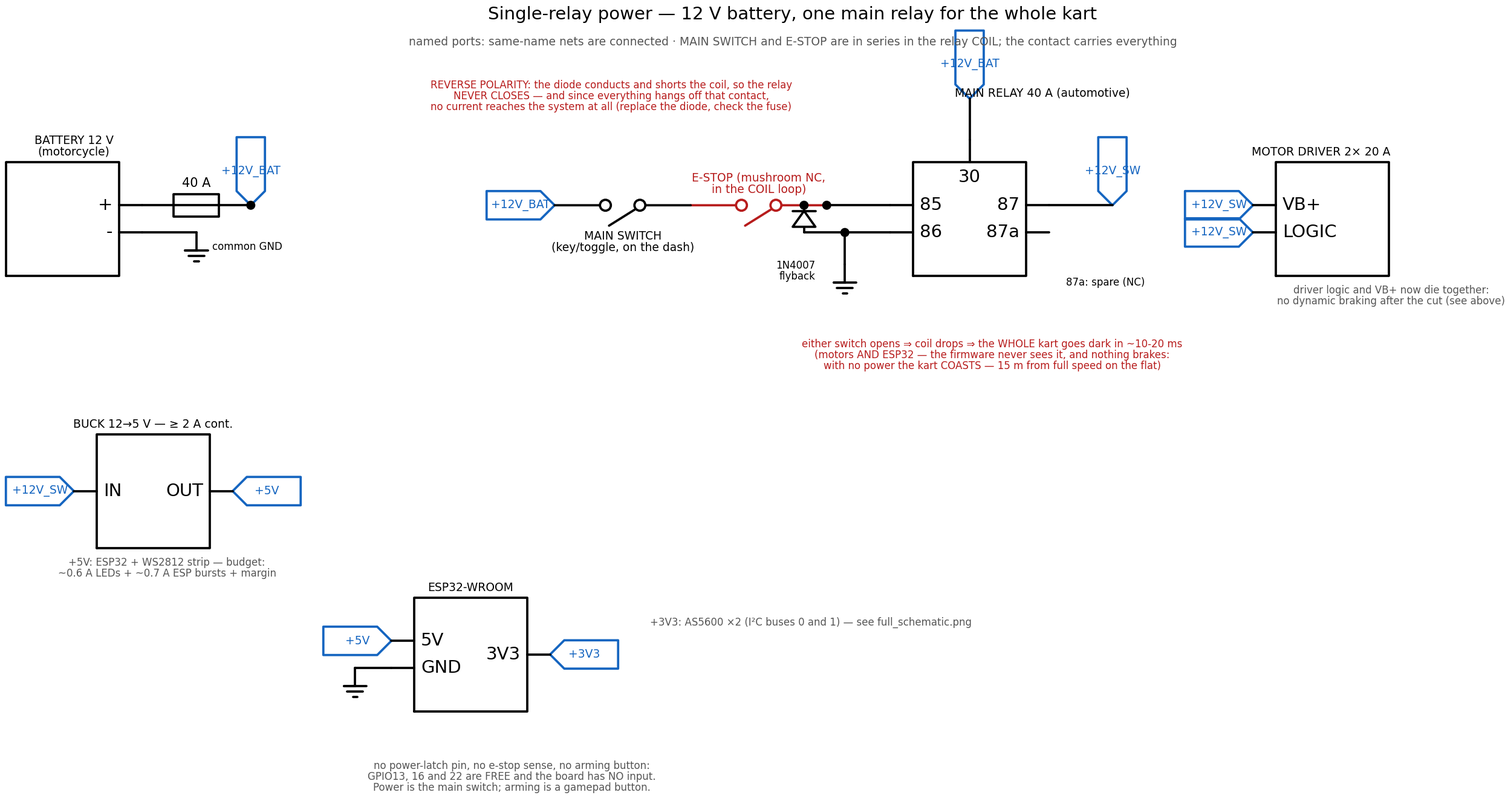
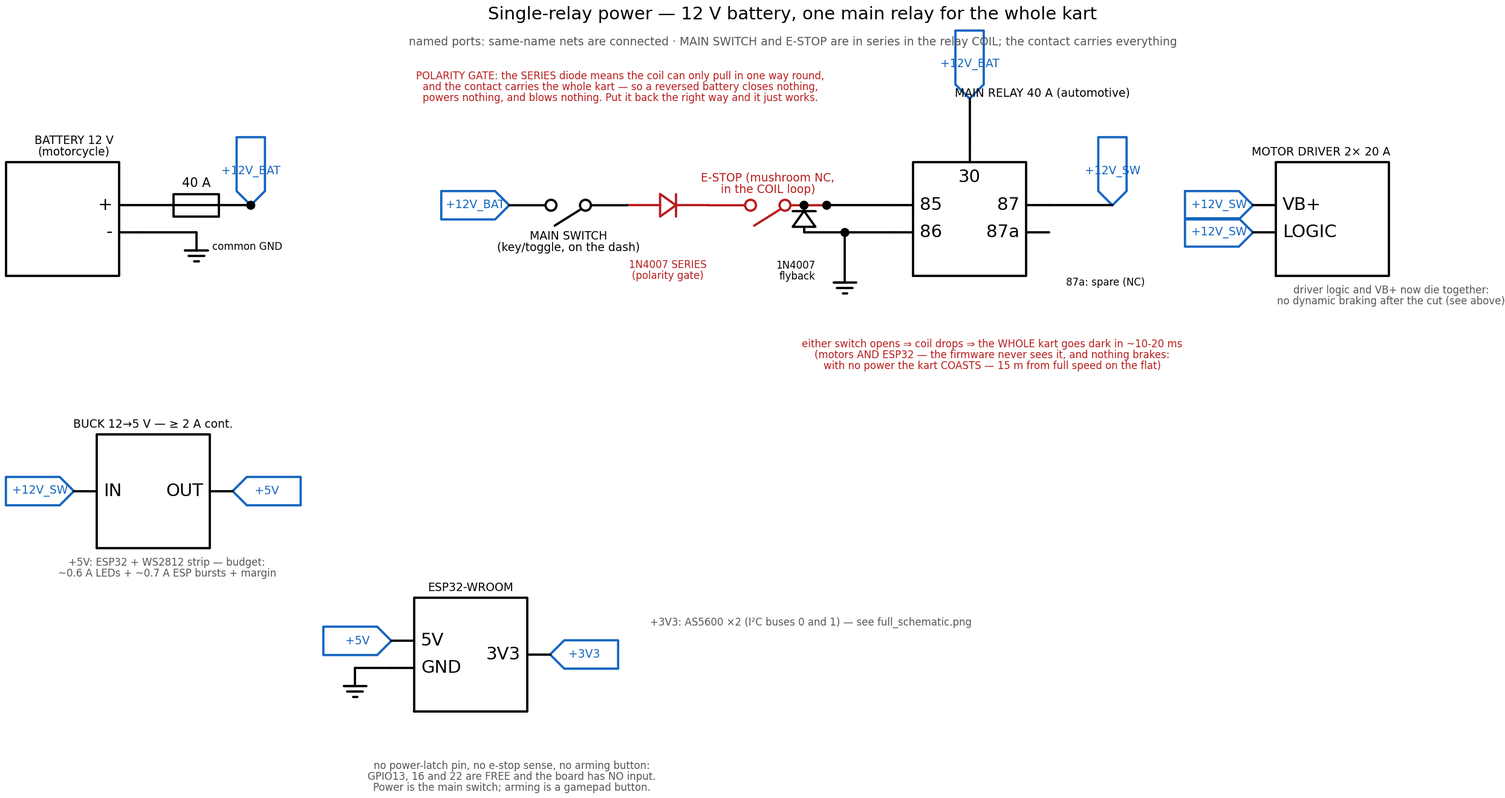
The relay becomes a polarity gate, with a diode in series in its coil
The owner put the protection the right way round, and it is worth stating
the way he put it: what protects the kart is not the fuse blowing, it is
that NOTHING is powered until the contact closes, and the contact only
closes if the coil is energized. Gate the coil and you have gated the whole
vehicle — driver, buck, ESP32, sensors, all of it sits behind that contact.

A relay coil does not gate anything by itself: a solenoid pulls in
whichever way the current flows. The flyback diode ACROSS the coil made it
polarity-sensitive by accident, and badly — reversed, it shorts the coil,
so the relay does stay open, but it does that by conducting the fault: the
40 A fuse blows, a 1N4007 eats a surge two orders of magnitude past its
rating, and if it ever fails OPEN the protection is gone with no sign. That
is single-use protection dressed up as a design feature.

So a second 1N4007 goes IN SERIES in the coil loop, between the main switch
and the mushroom. Reversed battery: it blocks, the coil sees nothing, the
contact stays open, no current flows anywhere and nothing is stressed — put
the battery back the right way and the kart starts. It costs ~0.9 V on a
coil that pulls in around 7-8 V from 12, and it fails loudly if fitted
backwards (the relay simply never closes), which is the failure mode you
want from a guard. Schematic, BOM (2 diodes now), wiring guide, power-up
checklist ("the relay does not click? check polarity and the diode's
[…]

Changed region(s): [[0.2784, 0.0933, 0.5569, 0.1554], [0.2784, 0.2176, 0.464, 0.373], [0.464, 0.2176, 0.5569, 0.2798]]

diff --git a/firmware/main/assets/index.html b/firmware/main/assets/index.html
@@ -302,7 +302,7 @@
    relay's own 10–20 ms.</p>
 
   <svg class="gears" viewBox="0 0 360 200" role="img"
-       aria-label="Power chain: the battery positive goes through a 40 amp fuse to a junction; one branch runs through the main switch and the normally-closed emergency-stop mushroom to the relay coil, which carries a flyback diode across it; the other branch is the relay contact, which feeds the whole kart">
+       aria-label="Power chain: the battery positive goes through a 40 amp fuse to a junction; one branch runs through the main switch, a series diode and the normally-closed emergency-stop mushroom to the relay coil, which also carries a flyback diode across it; the other branch is the relay contact, which feeds the whole kart">
    <text x="14" y="26" text-anchor="start">12 V +</text>
    <circle class="node" cx="20" cy="34" r="3"/>
    <path class="wire" d="M20 34 H52"/>
@@ -310,44 +310,55 @@
    <text class="dim" x="69" y="18" text-anchor="middle">40 A</text>
    <path class="wire" d="M86 34 H120"/>
    <circle class="node" cx="120" cy="34" r="3.5"/>
-   <!-- coil branch: main switch → e-stop (NC) → coil -->
-   <path class="wire" d="M120 34 H144 M172 34 H206 M236 34 H255"/>
+   <!-- coil branch: main switch → SERIES diode (the polarity gate) → e-stop (NC) → coil -->
+   <path class="wire" d="M120 34 H144 M172 34 H180 M192 34 H206 M236 34 H255"/>
    <path class="wire" d="M144 34 L168 22"/>
    <circle class="node" cx="144" cy="34" r="2.5"/><circle class="node" cx="172" cy="34" r="2.5"/>
-   <text class="dim" x="158" y="50" text-anchor="middle">main switch</text>
+   <text class="dim" x="148" y="50" text-anchor="middle" style="font-size:9px">main switch</text>
+   <path class="wire" d="M180 27 L180 41 L192 34 Z M192 26 V42"/>
+   <text class="dim" x="184" y="21" text-anchor="middle" style="font-size:8px">1N4007 gate</text>
    <circle class="node" cx="206" cy="34" r="2.5"/><circle class="node" cx="236" cy="34" r="2.5"/>
    <path class="wire" d="M206 34 V28 M236 34 V28 M204 28 H238 M221 28 V16"/>
    <rect class="body" x="211" y="8" width="20" height="7" rx="3.5"/>
-   <text class="dim" x="221" y="50" text-anchor="middle">e-stop (NC)</text>
+   <text class="dim" x="216" y="53" text-anchor="middle" style="font-size:8px">e-stop (NC)</text>
    <rect class="body" x="255" y="20" width="60" height="28" rx="3"/>
    <text x="285" y="38" text-anchor="middle">COIL</text>
    <path class="wire" d="M315 34 H330 V72 M245 34 V60 H330"/>
    <circle class="node" cx="245" cy="34" r="2.5"/>
    <path class="wire" d="M296 54 L296 66 L282 60 Z M280 53 V67"/>
-   <text class="dim" x="248" y="76" text-anchor="start">1N4007 — cathode to +</text>
+   <text class="dim" x="246" y="74" text-anchor="start" style="font-size:8px">1N4007 flyback</text>
+   <text class="dim" x="246" y="84" text-anchor="start" style="font-size:8px">cathode to +</text>
    <path class="wire" d="M322 72 H338 M325 77 H335 M328 82 H332"/>
    <!-- contact branch: the 40 A the coil switches -->
    <path class="wire" d="M120 34 V130 M158 130 H196"/>
    <circle class="node" cx="120" cy="130" r="2.5"/><circle class="node" cx="158" cy="130" r="2.5"/>
    <path class="wire" d="M120 130 L152 118"/>
    <path class="wire" stroke-dasharray="4 4" d="M258 48 L150 112"/>
-   <text class="dim" x="134" y="152" text-anchor="middle">contact 30→87</text>
+   <text class="dim" x="134" y="150" text-anchor="middle" style="font-size:9px">contact 30→87</text>
    <rect class="chip" x="196" y="108" width="152" height="46" rx="6"/>
    <text x="272" y="126" text-anchor="middle">THE WHOLE KART</text>
-   <text class="dim" x="272" y="140" text-anchor="middle">buck 5 V → ESP32 · WS2812</text>
-   <text class="dim" x="272" y="152" text-anchor="middle">motor driver VB+</text>
+   <text class="dim" x="272" y="139" text-anchor="middle" style="font-size:8px">buck 5 V → ESP32 · WS2812</text>
+   <text class="dim" x="272" y="150" text-anchor="middle" style="font-size:8px">motor driver VB+</text>
   </svg>
 
-  <p class="note"><b>The diode is there for the coil, and it protects the whole kart by accident.</b>
-   Its job is flyback: when the coil is de-energized it would otherwise kick a few hundred volts
-   across whatever just opened, and that arc eats switch contacts. Cathode to <b>+</b>, it does
-   nothing at all in normal operation. Connect the battery <b>backwards</b>, though, and that same
-   diode is suddenly forward-biased across the coil: it shorts it, so <b>the relay never pulls
-   in</b> — and because <i>everything</i> hangs off that one contact, <b>no current reaches the
-   system at all</b>. Not the motor driver (no reverse protection of its own, destroyed instantly
-   by reversed VB+), not the buck, not the ESP32, not the sensors. Afterwards: fix the polarity,
-   <b>replace the diode and check the 40 A fuse</b> — the two race each other during the event, and
-   a relay that no longer clicks is a dead diode, not a dead relay.</p>
+  <p class="note"><b>The relay is a polarity gate — that is the reverse-polarity protection.</b>
+   Nothing on this kart is powered until the contact closes, and the contact only closes if the
+   coil is energized. A relay coil does not care which way current flows through it, so a
+   <b>1N4007 in series</b> in the coil loop decides for it: with the battery backwards the diode
+   blocks, the coil sees nothing, the contact stays open, and <b>no current reaches anything</b> —
+   not the motor driver (no reverse protection of its own, destroyed instantly by reversed VB+),
+   not the buck, not the ESP32, not the sensors. Nothing blows and nothing is stressed; put the
+   battery back the right way and the kart starts. Fit it <b>band toward the relay</b> — backwards,
+   the relay simply never closes, which is a loud and harmless way to fail.</p>
+
+  <p class="note"><b>The second diode, across the coil, is the flyback.</b> When either switch
+   opens the coil, the collapsing field would otherwise break a few hundred volts across the
+   contact that just opened, eroding the mushroom and the main switch. Cathode to <b>+</b>, it
+   does nothing in normal operation. It could <i>almost</i> serve as the polarity guard on its own
+   — reversed, it shorts the coil and the relay does stay open — but it would do it by blowing the
+   40 A fuse and taking a surge far past its 1 A rating, and a diode that fails <b>open</b> takes
+   the protection with it, silently. Hence the series one: same protection, passive, repeatable,
+   and it costs ~0.9 V on a coil that pulls in around 7–8 V.</p>
 
   <p class="note"><b>The firmware has no say in any of this.</b> There is no power latch and no
    coil sense: the ESP32 cannot hold its own supply and cannot cut it. Press the mushroom and the

diff --git a/doc/schematics/power_rails.py b/doc/schematics/power_rails.py
@@ -1,15 +1,15 @@
 # power_rails.py — Kart power architecture, SINGLE-RELAY build (current design).
 # Single 12 V battery → 40 A fuse → ONE main relay that carries the WHOLE kart:
-#   · COIL circuit: +12V_BAT → MAIN SWITCH → E-STOP (NC mushroom) → coil 85; 86 → GND.
-#     Opening either one drops the coil, the contact opens, and everything dies together —
-#     motors AND brain. There is no second rail and no software involvement whatsoever:
-#     the firmware cannot hold its own power and cannot cut it (GPIO13/GPIO22 are free now).
+#   · COIL circuit: +12V_BAT → MAIN SWITCH → E-STOP (NC mushroom) → SERIES DIODE → coil 85;
+#     86 → GND. Opening either switch drops the coil, the contact opens, and everything dies
+#     together — motors AND brain. No second rail, no software involvement whatsoever: the
+#     firmware cannot hold its own power and cannot cut it (GPIO13/GPIO22 are free now).
 #   · CONTACT (30 → 87): the 40 A path feeding the buck (5 V logic) and the driver's VB+.
-#     Because EVERYTHING is behind that contact, a reversed battery reaches nothing at all.
-#   · 1N4007 across the coil (cathode to 85/+): flyback for the switch contacts — and, as a
-#     side effect, REVERSE-POLARITY protection for the whole kart: wire the battery backwards
-#     and the diode conducts, the fuse blows, and the relay never closes, so nothing
-#     downstream (the driver above all, which has no protection of its own) ever sees it.
+#   · THE RELAY IS A POLARITY GATE. The SERIES diode lets the coil energize in ONE direction
+#     only, and the contact carries the whole kart — so with the battery backwards the coil
+#     simply does not pull in, nothing downstream is ever powered, and nothing blows either:
+#     no current flows at all. Re-wire the right way round and it works. The second diode,
+#     ACROSS the coil (cathode to 85/+), is the flyback for the two mechanical switches.
 # Nothing measures the battery any more: no divider, no ADS1115, no LVC. Always 12 V.
 #   . .venv-schem/bin/activate && python doc/schematics/power_rails.py
 import schemdraw
@@ -71,9 +71,13 @@ with schemdraw.Drawing(file='doc/schematics/power_rails.png', dpi=150, show=Fals
     n85 = d.here
     d += elm.Dot()
     d += elm.Switch().left().at(n85).label('E-STOP (mushroom NC,\nin the COIL loop)',
-                                           loc='top', fontsize=9).length(3.0).color(HL)
+                                           loc='top', fontsize=9).length(2.6).color(HL)
+    # SERIES diode, anywhere in the coil loop: the coil can only be energized one way round.
+    # THIS is what makes the relay a polarity gate rather than a plain switch.
+    d += elm.Diode().left().length(1.8).reverse().label(
+        '1N4007 SERIES\n(polarity gate)', loc='bottom', fontsize=8, ofst=0.95).color(HL)
     d += elm.Switch().left().label('MAIN SWITCH\n(key/toggle, on the dash)',
-                                   loc='bottom', fontsize=9).length(3.0)
+                                   loc='bottom', fontsize=9).length(2.6)
     flag(d, d.here, '+12V_BAT', 'left')
     d += elm.Line().left().at(P(rly, '86')).length(1.0)
     n86 = d.here
@@ -88,10 +92,10 @@ with schemdraw.Drawing(file='doc/schematics/power_rails.png', dpi=150, show=Fals
                            '(motors AND ESP32 — the firmware never sees it, and nothing brakes:\n'
                            'with no power the kart COASTS — 15 m from full speed on the flat)',
                            fontsize=8, color=HL).at((11.6, 7.9))
-    d += elm.Label().label('REVERSE POLARITY: the diode conducts and shorts the coil, so the relay\n'
-                           'NEVER CLOSES — and since everything hangs off that contact,\n'
-                           'no current reaches the system at all (replace the diode, check the fuse)',
-                           fontsize=8, color=HL).at((3.2, 13.6))
+    d += elm.Label().label('POLARITY GATE: the SERIES diode means the coil can only pull in one way round,\n'
+                           'and the contact carries the whole kart — so a reversed battery closes nothing,\n'
+                           'powers nothing, and blows nothing. Put it back the right way and it just works.',
+                           fontsize=8, color=HL).at((3.4, 13.8))
 
     # ───────── Loads: everything hangs off the contact ─────────
     buck = d.add(elm.Ic(pins=[elm.IcPin(name='IN', side='left'), elm.IcPin(name='OUT', side='right')],

diff --git a/firmware/main/webserver.cpp b/firmware/main/webserver.cpp
@@ -61,6 +61,11 @@ constexpr char AP_SSID[]  = "Kart-Config";
 constexpr char AP_PASS[]  = "kart12345";   // ≥ 8 characters (otherwise open AP)
 constexpr int  AP_CHANNEL = 1;
 constexpr int  AP_MAX_CONN = 4;
+// STA reconnection HEARTBEAT: 5 s between attempts, never faster. A failed association is
+// retried by a one-shot timer rather than from the disconnect handler itself — reconnecting
+// in a tight loop would hammer the band (each attempt is a probe/auth/assoc exchange) and
+// starve the Bluetooth side, which shares the one radio with Wi-Fi on this chip. The kart
+// drives on that radio, so a home network that is simply out of range must cost nothing.
 constexpr int  STA_RETRY_MS = 5000;   // delay before a new STA connection attempt
 
 httpd_handle_t     m_server = nullptr;
@@ -70,7 +75,7 @@ char               m_sta_ip[16] = "0.0.0.0";
 esp_netif_t*       m_netif_ap = nullptr;
 esp_netif_t*       m_netif_sta = nullptr;
 
-// Timed STA reconnection (avoids looping too fast).
+// Timed STA reconnection — the only place that retries (STA_START does the first connect).
 void staRetryCb(void*)
 {
     esp_wifi_connect();
@@ -97,6 +102,8 @@ void wifiEvent(void*, esp_event_base_t base, int32_t id, void* data)
         std::strcpy(m_sta_ip, "0.0.0.0");
         if (m_sta_retry)
         {
+            // One-shot: if a retry is already armed this returns ESP_ERR_INVALID_STATE and we
+            // keep the pending one — either way the next attempt is at least 5 s away.
             esp_timer_start_once(m_sta_retry, static_cast<int64_t>(STA_RETRY_MS) * 1000);   // 5 s
         }
     }

diff --git a/README.md b/README.md
@@ -109,7 +109,7 @@ flowchart TB
 - **One battery voltage, and it is 12 V** (2026-09-20 simplification): the motors are 12 V, the pack is 12 V, and **nothing measures it** — no ADS1115, no divider, no low-voltage cutoff, no automatic `12 V / Vbat` cap. The driver would accept 6–30 V, but running anything above 12 V would now need that cap back, so **do not**. The only power ceiling left is the manual **`duty_cap`** on the config page, which doubles as the "make it gentler for a small child" knob. The trade, stated: a flat pack is no longer reported, warned about or protected against — it just makes the kart slower. Charge it on a schedule and watch its own indicator.
 - **Independently-mounted rear wheels**: driven by **#35 chain** (sprocket bolted to the rim), each keeps its original bearing on its own shoulder bolt — no through drive axle.
 - **Battery and electronics in the nose, drive at the rear**: longitudinal layout **CASTER + BATTERY + ESP32 + driver (nose) → CABIN → BENCH → DRIVEN AXLE 6″ behind it**. The children sit just ahead of the driven wheels, which puts **~61 % of the load on them** — traction and electric braking both act there, and weight transfer on a slope works with you. It was 79 % before the 6″/6″ move; that 18 points is the same thing the rollover margin lost. The battery in the nose keeps the caster planted. Power runs nose→rear in 10 AWG (~0.3 V at 40 A).
-- **Safety**: **central hardware emergency stop**, at the **top of the seatback** (within reach of both kids and an adult behind), **in the MAIN RELAY's coil loop together with the main switch** — the mushroom breaks ~150 mA, the relay contact breaks the 40 A, and **the whole kart goes dark, ESP32 included**. ⚠ That means **no braking after the cut**: the kart coasts (~15 m from full speed on the flat, measured in simulation — do not use the mushroom as a brake, and never rely on it downhill). The **brake** is releasing the stick; the **software** emergency stop (gamepad button B) brakes properly because the firmware is still alive. Plus: one 40 A fuse, **1N4007 across the relay coil** (flyback — and reverse-polarity protection as a side effect), **electric brake by default** (gamepad disconnect → immediate braking), **2 s watchdog (PANIC)**, **disarmed** start by default, guards over chains/sprockets, seatbelt, helmet.
+- **Safety**: **central hardware emergency stop**, at the **top of the seatback** (within reach of both kids and an adult behind), **in the MAIN RELAY's coil loop together with the main switch** — the mushroom breaks ~150 mA, the relay contact breaks the 40 A, and **the whole kart goes dark, ESP32 included**. ⚠ That means **no braking after the cut**: the kart coasts (~15 m from full speed on the flat, measured in simulation — do not use the mushroom as a brake, and never rely on it downhill). The **brake** is releasing the stick; the **software** emergency stop (gamepad button B) brakes properly because the firmware is still alive. Plus: one 40 A fuse, **two 1N4007 on the relay coil** — one **in series** (the coil energizes in one polarity only, so the relay is a **polarity gate** in front of the whole kart) and one **across** it (flyback for the two switches), **electric brake by default** (gamepad disconnect → immediate braking), **2 s watchdog (PANIC)**, **disarmed** start by default, guards over chains/sprockets, seatbelt, helmet.
 
 ---
 
@@ -298,7 +298,7 @@ Web parameters: **`turn_gain`** (turn authority), **`turn_full_ms`** / **`turn_a
 | | *Analog joystick* | **possible future**, behind the same software abstraction — but it would now need an ADC of its own (the ADS1115 and its two reserved channels are gone) |
 | **Power / electronics** | Battery | **One 12 V motorcycle battery** (~40 A peak OK, PWM ~100%) **in the NOSE, strapped in a retaining tray above the front caster** — it is the counterweight that keeps that single wheel planted. No paralleling this phase. **12 V is now a design constant**: nothing measures the pack, so nothing could cap the duty for a higher-voltage one — the 24 V option went away with the ADC |
 | | **Battery adapters** (×2) | Slide-on holder → power terminals (+ / −) |
-| | **40 A automotive relay** + **1N4007** across its coil | **the** main power switch: contact 30→87 carries the whole kart (see [power switch](#power-switch-one-main-relay)) + 1 fuse. The diode is flyback for the switches **and** reverse-polarity protection for everything downstream |
+| | **40 A automotive relay** + **2× 1N4007** on its coil | **the** main power switch: contact 30→87 carries the whole kart (see [power switch](#power-switch-one-main-relay)) + 1 fuse. One diode **in series** in the coil loop makes the relay a **polarity gate** (reversed battery ⇒ the coil never pulls in ⇒ nothing downstream is powered); the other, **across** the coil, is the flyback for the two switches |
 | | **Main switch + e-stop mushroom** | both **in series in the relay's coil** (~150 mA, thin wire): the main switch on the dash is the kart's on/off, the mushroom at the top of the seatback is the emergency cut. No latch, no priming button, no FORCE ON toggle, no hold capacitor. Full BOM: [`doc/electronique.md`](doc/electronique.md) |
 | | Motor driver | **1 dual-channel board 20 A / 6–30 V** (PWM+DIR/channel), duty bounded by the manual cap `duty_cap` |
 | | Controller | **ESP32-WROOM board** (dual-core 240 MHz, Wi-Fi/BT, 4 MB flash) |
@@ -439,7 +439,7 @@ The scale (center + half-amplitude per axis) is **persisted in NVS** (namespace 
 
 - **Emergency stop** easily accessible, **in the main relay's coil loop** (in series with the main switch): pressing it de-energises the coil and the **relay contact breaks the 40 A** (~10-20 ms). The mushroom itself only switches ~150 mA on signal-gauge wires — no 40 A detour to the seatback, any decent NC mushroom qualifies. ⚠ **It cuts the ESP32 too**, so the firmware never sees it: no fault, no log entry, and above all **no braking** — the kart coasts (~15 m from full speed on the flat; a slope is worse). Power returns on the main switch and the kart boots **disarmed**. A **welded contact** is no longer detectable in software either: the commissioning test (mushroom pressed, multimeter on VB+) is what catches it. In exchange the wiring lost a relay, an opto, a sense pin and every software path that went with them. The gamepad's **button B** remains the emergency stop that actually **brakes**, because the firmware survives it.
 - **Main switch** (dash, in the same coil loop) is the kart's on/off — the only control on the vehicle. Arming is a gamepad button. **Fuse/pack**, wiring ≥ the 2 motors' current.
-- **1N4007 across the relay coil**: flyback for the two switches, and — because a reversed battery forward-biases it — the **fuse blows and the relay never closes**, so a polarity mistake never reaches the driver (which has no protection of its own).
+- **The relay is a polarity gate**: nothing is powered until the contact closes, and a **1N4007 in series** in the coil loop means the coil energizes in one polarity only. Connect the battery backwards and the coil simply does nothing — no current anywhere, nothing blown, nothing stressed; put it back the right way and the kart starts. A second 1N4007 **across** the coil is the flyback for the two mechanical switches. ⚠ Neither one covers a VB+/VB− swap made *downstream* of the contact, at the driver's terminals.
 - **Battery: one 12 V motorcycle battery** (lead-acid — no BMS of its own). ⚠ **Deep-discharge protection is now the pack's alone**: the firmware LVC went away with the voltage measurement. The 40 A fuse still covers shorts. Charge on a schedule rather than on a warning.
 - **One 12 V pack, no paralleling** (this phase): it carries the whole ~40 A, so its internal resistance sets the sag under load — a motorcycle battery at ~0.05 Ω dips ~2 V at full throttle, which the motors feel as a little less thrust. ⚠ **Never put packs in series**: 24 V on 12 V motors, with no automatic cap left to hold the duty down, cooks them.
 - **Speed limiter** low at first; **battery secured/protected**; **guards**; **electric brake** + **auto disarm** + **2 s watchdog** + manual `duty_cap`. Cut power before servicing (main switch, and pull the fuse for anything invasive).
@@ -673,20 +673,26 @@ flowchart LR
 > |---|---|---|---|
 > | main relay | **YONGCHUAN YCL-12V-C**, automotive SPDT (85/86 coil, 30/87/87a) | 12 V, ~80 Ω, **150 mA** | **40 A** on 87 (NO), 30 A on 87a |
 > | coil switches | ordinary **NC mushroom** + **toggle/key switch**, in series | they only break the 150 mA coil current | signal-gauge wire to the seatback |
+> | coil diodes | **2× 1N4007** — one in SERIES (polarity gate), one ACROSS the coil (flyback) | 1 A / 1000 V, ~0.9 V drop on 150 mA | — |
 >
 > Feed everything from **87 (NO)**: it is the contact carrying the 40 A rating, and it also
 > means an unpowered relay is an unpowered kart. The **1N4007** across the coil is required for
-> the two mechanical switches (an inductive break arcs and erodes contacts) — and, as a side
-> effect nobody paid for, it is **reverse-polarity protection for the whole kart**. That
-> follows from the single relay: *everything* is behind the contact, so the only question a
-> reversed battery has to answer is whether the relay closes. It does not — reversed, the diode
-> is forward-biased across the coil and shorts it, so the coil never pulls in, the contact stays
-> open and **no current reaches the system at all**: not the motor driver (no reverse protection
-> of its own, destroyed instantly by reversed VB+), not the buck, not the ESP32, not the
-> sensors. ⚠ Two caveats: the 1N4007 and the fuse race each other during the event, so
-> **replace the diode and check the fuse** afterwards (a relay that no longer clicks is a dead
-> diode); and it does **not** cover a VB+/VB− swap made *downstream* of the contact — check
-> that one by hand.
+> the two mechanical switches (an inductive break arcs and erodes contacts). A **second**
+> 1N4007 sits **in series** in the coil loop, and that one is the **reverse-polarity
+> protection for the whole kart** — which is a property of the single-relay layout, not of a
+> component: *everything* is behind the contact, so the only question a reversed battery has
+> to answer is whether the relay closes. With a series diode gating the coil, it cannot: the
+> coil sees nothing, the contact stays open, **no current reaches the system at all** and
+> nothing is stressed. Put the battery back the right way and the kart starts — the protection
+> is passive and repeatable, not single-use.
+>
+> A bare coil would not do this (a solenoid pulls in either way round), and the flyback diode
+> alone would do it *badly*: reversed, it shorts the coil — the relay does stay open, but the
+> 40 A fuse blows, the diode takes a surge far past its 1 A rating, and if it ever fails
+> **open** the protection disappears without a sign. The series diode costs ~0.9 V on a coil
+> that pulls in around 7–8 V, so the margin is wide. ⚠ Fit it band-toward-the-relay: backwards,
+> the relay simply never closes (a loud, harmless failure). ⚠ And it does **not** cover a
+> VB+/VB− swap made *downstream* of the contact — check that one by hand.
 >
 > **And the last GPIO input went with them.** The panel **arming button** (GPIO16) is gone
 > too: arming already required a connected, calibrated gamepad whose own START/Options button
@@ -771,7 +777,7 @@ flowchart LR
 
 **Phase 3 — Rear drives (replaces the old "steering").** On **each rear wheel**: bolted 32T sprocket (large washers / backing plate) + 3D gearbox with its 25T output **ahead of and above the axle** (165 mm centre distance, so chain slack hangs on the run instead of climbing the teeth) + motor on a reinforced mount + #35 chain cut to length + tension adjustment + guard. **No linkage**: steering is differential, so nothing to adjust on the steering-wheel/tie-rod side. ✅ *With no power: each rear wheel turns by hand, chain tensioned and lubricated.*
 
-**Phase 4 — Power electronics ⚠ (in the nose).** The **single 12 V pack in the NOSE, strapped in its retaining tray over the caster** (build the tray first: plywood plate + rims on the deck); **fuse 40 A AT the battery → main relay (contact 30→87) → +12V_SW rail → 10 AWG pair back to the rear motors**; the relay **coil** fed through the **main switch (dash)** and the **e-stop mushroom (NC, top of the seatback)** in series — thin wires, the contact is what breaks the 40 A — with the **1N4007 across the coil** (cathode to 85/+), which also blows the fuse instead of letting a reversed battery through. No latch, no priming button, no FORCE ON toggle, no capacitor. See [`doc/electronique.md`](doc/electronique.md) for the full wiring guide and [`doc/schematics/power_rails.png`](doc/schematics/power_rails.png) for the schematic; **mount the emergency-stop mushroom button at the top of the seatback, centered** (within reach of both kids and an adult behind); driver (⚠ **VB+/VB- polarity**, and the coil diode does NOT protect this side) → 2 rear motors; **~10 AWG**, crimped lugs. ✅ *With a multimeter BEFORE connecting: polarity, ~12 V at the driver once the main switch is on, and **the e-stop kills everything — verify VB+ actually reads 0 V** (the only test that catches a welded contact). Then force a reset while powered: the kart must stay powered, reboot and come back disarmed. Finally, know the coast: with the kart rolling gently, press the mushroom and see how far it keeps going — it does not brake.*
+**Phase 4 — Power electronics ⚠ (in the nose).** The **single 12 V pack in the NOSE, strapped in its retaining tray over the caster** (build the tray first: plywood plate + rims on the deck); **fuse 40 A AT the battery → main relay (contact 30→87) → +12V_SW rail → 10 AWG pair back to the rear motors**; the relay **coil** fed through the **main switch (dash)** and the **e-stop mushroom (NC, top of the seatback)** in series — thin wires, the contact is what breaks the 40 A — with **two 1N4007 on the coil**: one **in series** (band toward the relay — the polarity gate: a reversed battery energizes nothing and blows nothing) and one **across 85/86** (cathode to 85/+, flyback for the two switches). No latch, no priming button, no FORCE ON toggle, no capacitor. See [`doc/electronique.md`](doc/electronique.md) for the full wiring guide and [`doc/schematics/power_rails.png`](doc/schematics/power_rails.png) for the schematic; **mount the emergency-stop mushroom button at the top of the seatback, centered** (within reach of both kids and an adult behind); driver (⚠ **VB+/VB- polarity**, and the coil diode does NOT protect this side) → 2 rear motors; **~10 AWG**, crimped lugs. ✅ *With a multimeter BEFORE connecting: polarity, ~12 V at the driver once the main switch is on, and **the e-stop kills everything — verify VB+ actually reads 0 V** (the only test that catches a welded contact). Then force a reset while powered: the kart must stay powered, reboot and come back disarmed. Finally, know the coast: with the kart rolling gently, press the mushroom and see how far it keeps going — it does not brake.*
 
 **Phase 5 — Control electronics.** ESP32 + breakout; **buck → 5 V on the switched 12 V rail** (the ESP makes its own 3.3 V); **2× AS5600**: wheel L on **bus 0 (SDA18/SCL19)**, wheel R on **bus 1 (SDA27/SCL14)**, 4.7 kΩ pull-ups per bus + centered magnets; WS2812B (GPIO4). **No buttons, no ADC, no divider, no sense line** — GPIO 13, 16, 22 stay free and the board has no input at all besides the two I²C buses. ✅ *Common grounds, 3.3 V/5 V present, AS5600 detected (0x36 on each bus — the boot-time I²C scan prints what actually answers).*
 

diff --git a/doc/electronique.md b/doc/electronique.md
@@ -8,10 +8,10 @@ in [`../firmware/README.md`](../firmware/README.md).
 **Design inputs (fixed):** single **12 V** motorcycle battery — always 12 V, never measured ·
 **5 V rail ≥ 2 A** (it powers everything: ESP32, WS2812 strip, sensors) · **ONE main relay
 carries the whole kart**, its coil in series with the **main switch** and the **e-stop
-mushroom** · **1N4007 across that coil** (flyback — and, because nothing is powered until the
-relay closes, reverse-polarity protection for the whole vehicle) · ESP32 and 2× AS5600
-confirmed · **no ADC, no voltage divider, no power latch, no buttons**: the ESP32 has no GPIO
-input left at all.
+mushroom** · **two 1N4007 on that coil**: one **in series** (the coil energizes in ONE
+polarity only — the relay becomes a polarity gate in front of the whole vehicle) and one
+**across** it (flyback for the two switches) · ESP32 and 2× AS5600 confirmed · **no ADC, no
+voltage divider, no power latch, no buttons**: the ESP32 has no GPIO input left at all.
 
 ![Single-relay power](schematics/power_rails.png)
 
@@ -23,7 +23,7 @@ input left at all.
 
 | | |
 |---|---|
-| **Coil circuit** (~150 mA, thin wire) | fused battery + → **MAIN SWITCH** → **E-STOP (NC mushroom)** → pin **85**; **86** → ground. **1N4007 across 85/86**, cathode on 85. |
+| **Coil circuit** (~150 mA, thin wire) | fused battery + → **MAIN SWITCH** → **1N4007 in SERIES** → **E-STOP (NC mushroom)** → pin **85**; **86** → ground. Plus a second **1N4007 across 85/86**, cathode on 85. |
 | **Contact** (30 → 87, the 40 A path) | feeds **+12V_SW**: the buck (→ 5 V: ESP32, WS2812), the motor driver's **VB+** *and* its logic board. |
 | **Dies when** | the main switch is turned off, the mushroom is pressed, the fuse blows, or the battery is disconnected. There is no fourth case — **the firmware has no say in it at all**. |
 
@@ -74,34 +74,43 @@ kart goes dark: motors and brain together**. Consequences, stated plainly:
 - **No hidden FORCE ON switch**, no priming button, no hold capacitor: the main switch *is*
   the bench switch, and USB power alone runs the ESP32 for flashing with the relay open.
 
-### The diode, and the reverse-polarity protection nobody paid for
+### The relay is a polarity gate
 
-**1N4007 across the coil, cathode to 85 (+).** Its job is flyback: the coil is an inductor and
-whichever contact opens it — the main switch or the mushroom — would otherwise break a few
-hundred volts of kickback and erode itself. Both switches are ordinary hardware, so this is
-not optional.
+This is the real reverse-polarity protection, and it is a consequence of the single-relay
+layout rather than of any one component: **nothing on this kart is powered until the contact
+closes, and the contact only closes if the coil is energized.** Make the coil energize in one
+polarity only and the whole vehicle is gated — the motor driver (no reverse protection of its
+own, destroyed instantly by reversed VB+), the buck, the ESP32, the sensors, all of it sits
+behind that one contact.
 
-**The side effect protects the entire kart, and it follows from the single relay.** Because
-*everything* now sits behind the contact, the only question a reversed battery has to answer
-is "does the relay close?". It does not: with the polarity reversed the diode is
-forward-biased across the coil, so the coil is shorted and never pulls in. The contact stays
-open, **no current reaches the system at all** — not the motor driver (which has no reverse
-protection of its own and dies instantly from reversed VB+), not the buck, not the ESP32, not
-the sensors. The two-rail design could not have claimed that: its logic rail was fed through a
-separate module, on its own path, with its own exposure.
+A relay coil does **not** do that by itself: it is a solenoid, it pulls in whichever way the
+current flows. So the coil carries **two 1N4007, with two different jobs**:
 
-The old design answered this risk with "process, not parts" — polarized connectors and a
-checklist. The process still applies; now the topology backs it up, for free.
+| Diode | Where | What it does |
+|---|---|---|
+| **Series** | in the coil loop (between the main switch and the mushroom), **band/cathode toward pin 85** | **The gate.** Reversed battery ⇒ it blocks ⇒ the coil sees nothing ⇒ the contact stays open ⇒ **no current reaches the system, and nothing is stressed**. Re-wire the right way round and the kart starts. Costs ~0.9 V on the coil. |
+| **Flyback** | across the coil, 85/86, **cathode on 85 (+)** | **The arc killer.** When either switch opens the coil, the collapsing field would otherwise break a few hundred volts across the contact that just opened, eroding the mushroom and the main switch. Does nothing in normal operation. |
 
-⚠ Two things the diode does not do:
-- It does not survive the event politely. Shorted across a reversed 12 V through thin coil
-  wiring, the 1N4007 (1 A continuous) and the 40 A fuse race each other — **expect to replace
-  the diode, and check the fuse**, before concluding that anything is fixed. A relay that no
-  longer clicks after a polarity mistake is a dead diode, not a dead relay.
-- It does not cover a reversal made **downstream of the contact** — VB+/VB− swapped by hand at
-  the driver's own terminals, which is on the other side of the relay. The polarity check at
-  step 6 of the wiring guide is still the only thing standing between that mistake and a dead
-  driver.
+**Why the series diode, when the flyback one alone already keeps the relay open.** It does
+keep it open — reversed, the flyback diode is forward-biased across the coil and shorts it, so
+the coil cannot pull in either. But it does that by *conducting the fault*: the 40 A fuse
+blows, the diode takes a surge far beyond its 1 A rating, and the protection is **single-use**
+— worse, a 1N4007 that fails **open** removes it silently, and the next reversed connection
+energizes the coil normally. The series diode makes the same protection **passive and
+repeatable**: the reversed connection simply does nothing at all.
+
+**The voltage it costs is free.** The coil draws ~150 mA at 12 V (~80 Ω); the diode drops
+~0.9 V at that current, so the coil sees ~11 V on a fresh pack and ~10.4 V with the battery
+sagged to 11.3 V. A 12 V automotive relay pulls in around 7–8 V and holds well below that, so
+the margin stays wide. Use a plain 1N4007 (1 A / 1000 V) — the same part as the flyback.
+
+⚠ **Fit the series diode the right way round**: band toward the relay (pin 85). Backwards, the
+relay never closes at all — which is a loud, immediate, harmless failure, and exactly the
+failure mode you want from a protection device.
+
+⚠ **What it still does not cover**: a **VB+/VB− swap made downstream of the contact**, at the
+driver's own terminals. That wiring is on the far side of the gate, so only the polarity check
+at step 6 of the wiring guide stands between that mistake and a dead driver.
 
 ### 5 V rail — the ≥ 2 A budget
 
@@ -138,7 +147,7 @@ schedule rather than on a warning.
 | Risk | Measure |
 |---|---|
 | Short / overload | **40 A blade fuse** in a holder, as close to the battery + as possible — everything downstream is protected, relay included |
-| Reversed battery connection | **1N4007 across the coil** (see above): the fuse blows and the relay never closes. Plus polarized connectors + color discipline (red/+, black/−) |
+| Reversed battery connection | **1N4007 in SERIES in the coil loop** (see above): the coil cannot energize, so the relay never closes and nothing downstream is powered — no current, no damage, no part to replace. Plus polarized connectors + color discipline (red/+, black/−) |
 | Coil kickback eroding the switches | that same **1N4007 across 85/86** |
 | ESP32 brownout during motor surges | bulk electrolytic (≥ 470 µF) at the buck input; keep the buck's input tap off the motor cables' IR drop |
 | No braking after a power cut | **behavioral**: the e-stop is a last resort; the brake is the stick. Hardware option documented above (NC relay across the phases) |
@@ -150,7 +159,7 @@ schedule rather than on a warning.
 | 1 | Motorcycle battery | 12 V lead-acid, ≥ 40 A peak | 1 | single pack, **in the NOSE** — strapped in a retaining tray above the front caster (counterweight) |
 | 2 | Blade fuse + holder | **40 A** | 1 | master protection at battery + |
 | 3 | Automotive relay | 12 V coil, **40 A** on 87 (NO), SPDT | 1 | **the** main relay: whole kart |
-| 4 | Diode 1N4007 | 1 A / 1000 V | 1 | flyback across the coil + reverse-polarity guard |
+| 4 | Diode 1N4007 | 1 A / 1000 V | **2** | one **in series** in the coil loop (polarity gate) + one **across** the coil (flyback) |
 | 5 | E-stop mushroom | NC, latching (coil current only: ≥ 1 A) | 1 | in the coil loop, top of seatback — thin wires |
 | 6 | Main switch | toggle or key, ≥ 1 A, panel mount | 1 | in the coil loop, on the dash — the on/off of the kart |
 | 7 | Buck converter | 12 V in → **5 V ≥ 2 A cont.** (3 A class) | 1 | 5 V rail |
@@ -179,9 +188,12 @@ Work with the battery disconnected; connect it last.
    Battery − → common ground bus (10 AWG). Keep signal looms on the other rail, away from
    that run.
 2. **Fused + → relay pin 30** (10 AWG).
-3. **Coil loop** (18–22 AWG): fused + → **main switch** (dash) → **e-stop mushroom (NC, top of
-   seatback)** → **85**; **86** → ground bus. **1N4007 across 85/86, cathode (ring) on 85.**
-   Order matters only for reach — either switch cuts the same loop.
+3. **Coil loop** (18–22 AWG): fused + → **main switch** (dash) → **1N4007 in series, band
+   (cathode) toward the relay** → **e-stop mushroom (NC, top of seatback)** → **85**; **86** →
+   ground bus. Then the second **1N4007 across 85/86, cathode (ring) on 85**. The order of the
+   two switches matters only for reach — either one cuts the same loop — but the **series
+   diode's direction does matter**: backwards, the relay never closes. Solder it inside the
+   enclosure with short leads, not in the middle of the loom.
 4. **Relay pin 87 → +12V_SW bus** (10 AWG, short run inside the nose). **87a stays spare.**
 5. **+12V_SW → driver VB+** (10 AWG) and **→ driver logic supply** (18 AWG). Driver VB− →
    ground bus (10 AWG). The driver's two motor outputs are what run nose→rear (step 1). ⚠ **Triple-check VB+/VB− polarity before the battery goes in — the
@@ -202,6 +214,9 @@ Work with the battery disconnected; connect it last.
 1. No continuity between +12V_SW and ground, **with the main switch off** (before anything).
 2. **Main switch on**: the relay clicks, +12V_SW present, buck outputs 5.0 V, ESP32 boots
    (status LED, then the Wi-Fi access point). The page shows the kart **disarmed**.
+   ⚠ **The relay does not click?** Check the battery polarity and the series diode's direction
+   *before* anything else — those are the two things that stop the coil energizing, and both
+   are harmless as long as you do not "fix" them by bypassing the diode.
 3. **Press the e-stop**: the relay drops, **everything** goes dark — verify with the
    multimeter that **driver VB+ is actually at 0 V** (this is the only test that catches a
    welded contact; nothing in software can). The web page loses its connection, which is the
@@ -228,7 +243,7 @@ Work with the battery disconnected; connect it last.
 | Power latch (GPIO13) | **removed** | a firmware that can cut its own supply needs a priming button, a bootstrap rail, a FORCE ON switch and a "reboot = power-down" rule. A main switch does the same job with no failure modes and no code |
 | Idle auto power-off | **removed with the latch** | it needed `POWER_HOLD`. A forgotten kart is now switched off by hand — the same hand that switched it on |
 | Battery measurement (ADS1115 + divider) | **removed** | one 12 V pack, which is the motors' nominal voltage: nothing to cap automatically. Cost, stated: no LVC, no low-battery warning, no gauge — a flat pack is felt, not reported. The pack's own protection remains |
-| Reverse-polarity protection | **the coil diode + the single relay, by design now** | the 1N4007 was already required for flyback. Reversed, it shorts the coil so the relay never closes — and since the single relay feeds *everything*, no current reaches any part of the system. The two-rail build could not have made that claim. Free; budget a replacement diode |
+| Reverse-polarity protection | **the relay IS the gate: series diode in the coil** | the single relay feeds *everything*, so gating the coil gates the vehicle. A **series** 1N4007 makes the coil energize in one polarity only: reversed, nothing pulls in, nothing is powered, nothing blows — passive and repeatable. Considered and rejected: relying on the **flyback** diode alone (reversed, it shorts the coil and does keep the relay open, but it blows the fuse, exceeds its own rating, and vanishes silently if it ever fails open). Cost of the gate: one diode and ~0.9 V on a coil that has volts to spare |
 | Arming button (GPIO16) | **removed** | arming already required a connected, calibrated gamepad holding its own START button, so the panel button duplicated a control the driver had in hand. Removing it takes the last GPIO input off the board and leaves nothing on the vehicle a bystander can press |
 | Welded relay contact | **not detected, tested at commissioning** | the coil sense used to catch it in software. Now step 3 of the checklist (VB+ dead with the mushroom pressed) is the only test — deliberately accepted with the single-relay trade |
 | Braking after the e-stop | **none — documented and measured** | with no power there is no electric brake of any kind. `arret_urgence_plat` puts a number on it (~15 m on the flat) so the behaviour is a known quantity rather than a surprise. NC relay across the phases stays the documented fix if ever wanted |
